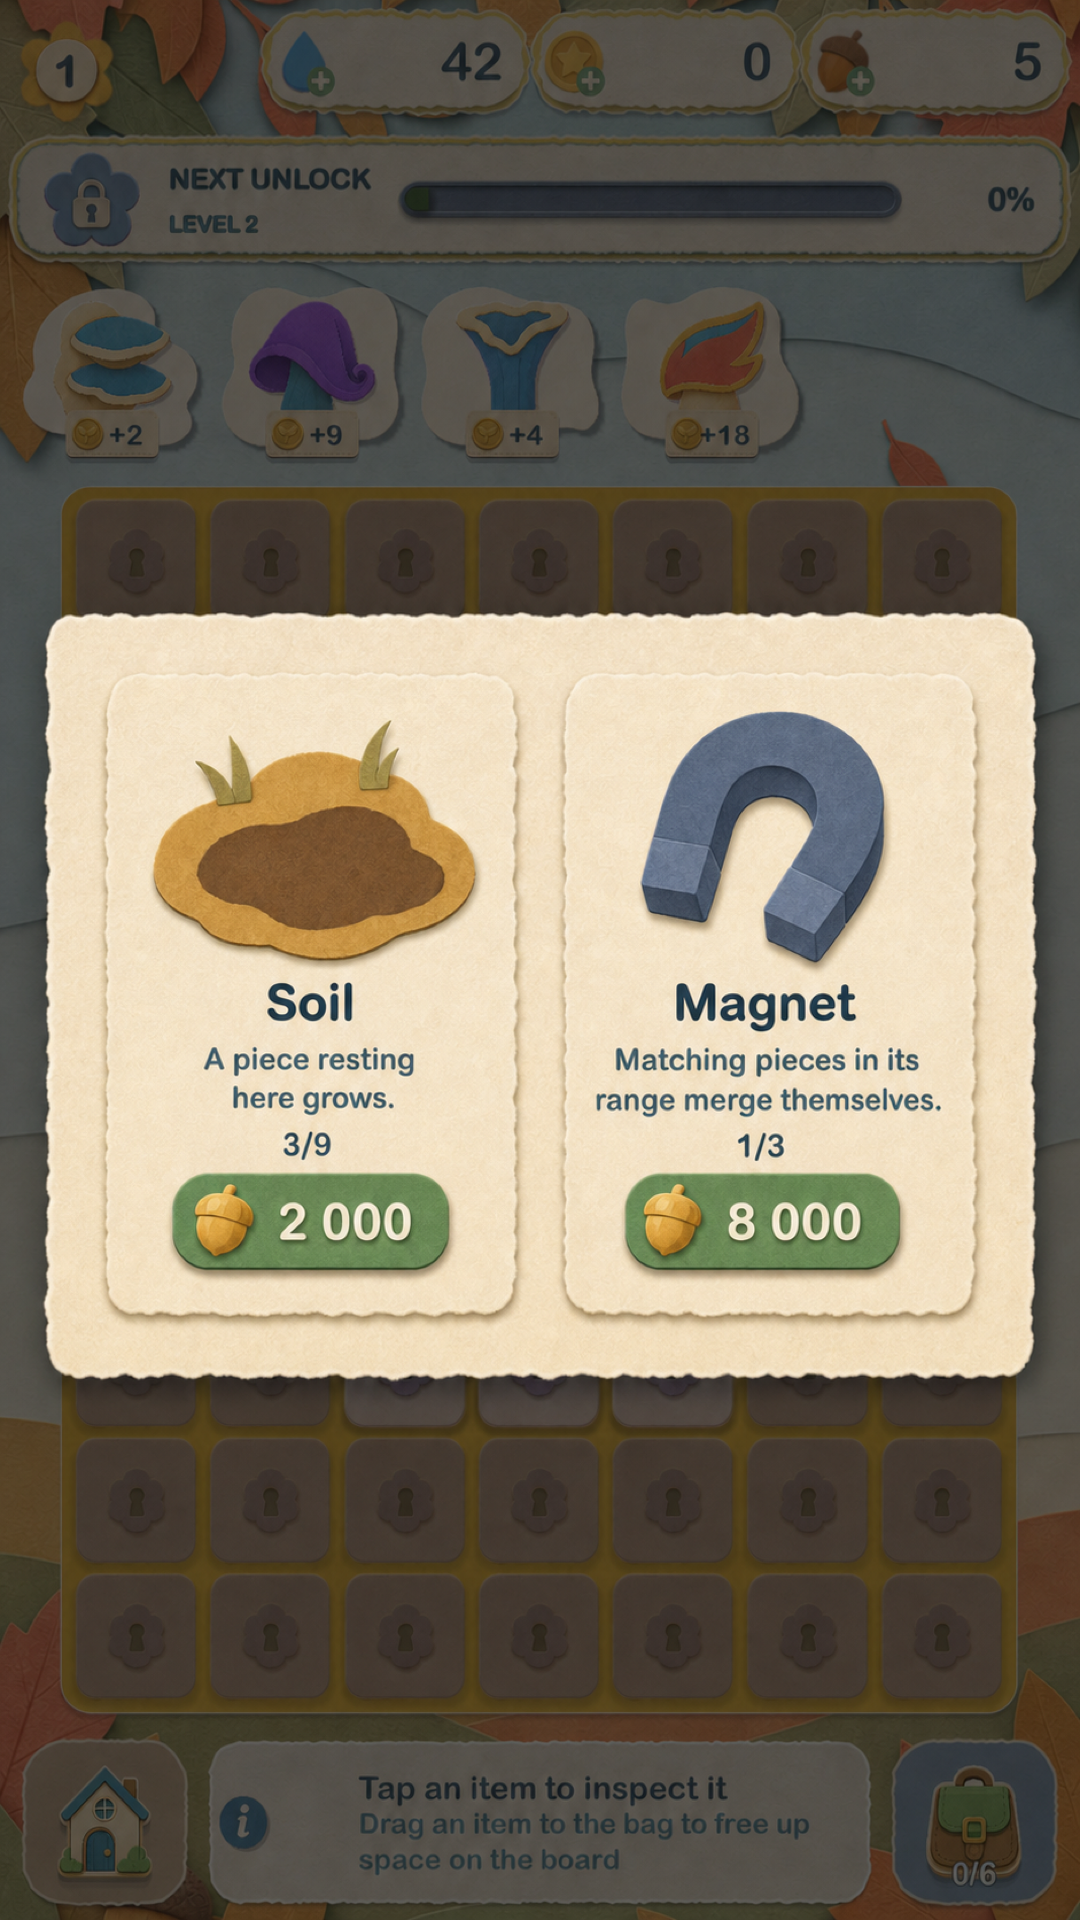
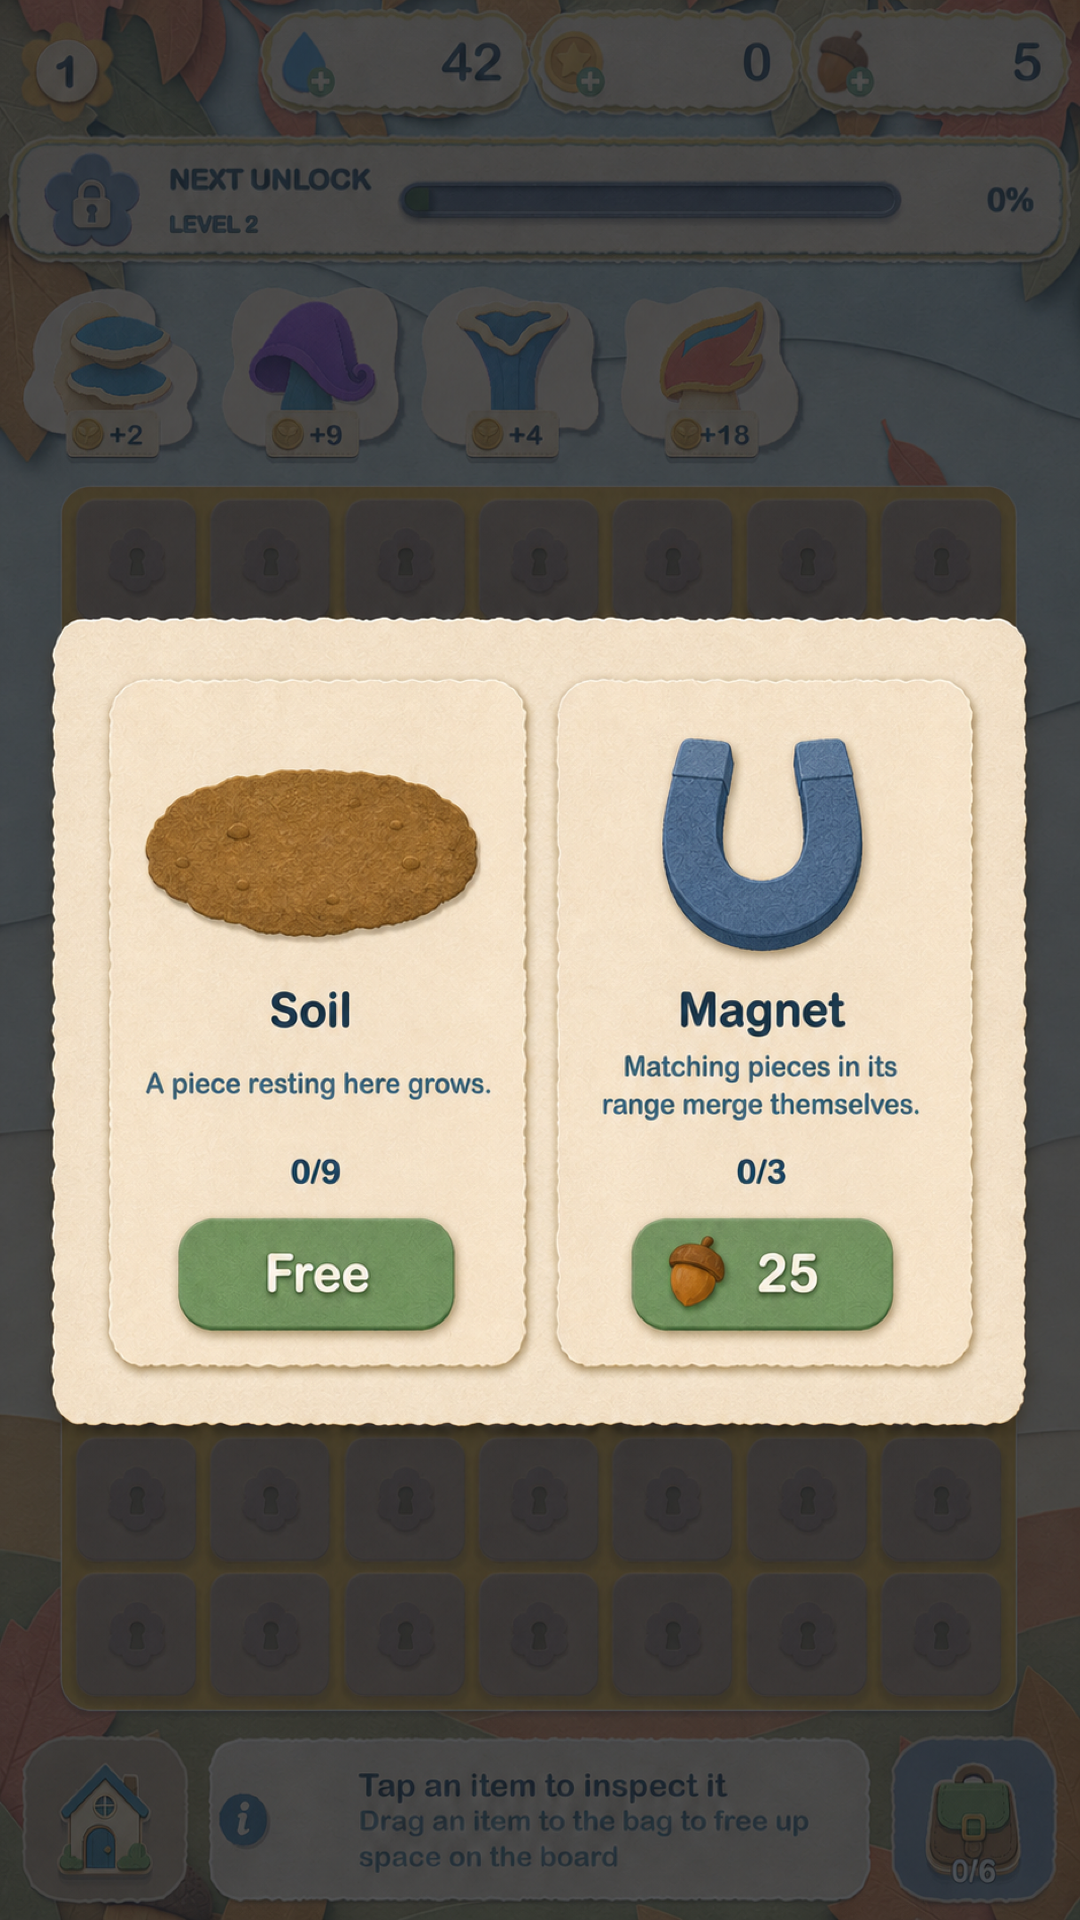
docs(spec)+mocks: cell improvements draft 4 — 3 free soils then coins, magnets cost acorns, paid move verb replaces rebuild, magnet rankless 3x3 with ordinary cell; sheet+magnet mocks regenerated

diff --git a/docs/superpowers/specs/2026-07-26-cell-improvements-design.md b/docs/superpowers/specs/2026-07-26-cell-improvements-design.md
@@ -1,6 +1,6 @@
 # Cell improvements (Soil · Magnet) — spec (2026-07-26)
 
-Draft 3. Rollout step 4 of `2026-07-26-progression-systems-design.md`; supersedes its §6
+Draft 4. Rollout step 4 of `2026-07-26-progression-systems-design.md`; supersedes its §6
 where they differ. All numbers are provisional dials — the `grove_sim` re-pass owns finals.
 Acorns = `currencies.diamonds` (`save.gd:145-160`). Home board only (Rush is a separate
 scene, `explore_rush.gd:65` — no flag needed).
@@ -10,10 +10,14 @@ scene, `explore_rush.gd:65` — no flag needed).
 - Two types: **Soil** — a resting piece grows a tier on a timer. **Magnet** — matching
   pieces inside its range merge automatically.
 - Build on any unsealed, empty cell. Caps: **9 Soil · 3 Magnets**.
-- One payment builds at rank 1: pad → two-card sheet → `Save.spend(price, "improvement")`.
-  Price keyed to the count of that type already built (§6).
-- Rebuild to the other type: 200 coins, cell must be empty, rank resets. Demolish: free, no
-  refund.
+- One payment builds: pad → two-card sheet → pay → built. **Soil: the first three are free,
+  then a coin ladder. Magnet: acorns** (§6). Price keyed to the count of that type currently
+  on the board — `Save.spend(n, "improvement")` for coins, `Save.spend_diamonds(n)` for
+  Magnets.
+- **Move:** a built improvement relocates to another unsealed, empty cell for a small flat
+  coin fee; Soil rank travels with it; a running clock on the source clears (the t7+ warning
+  applies, §3). **Demolish:** free, no refund — building again later pays that count slot's
+  price again. There is no type-swap verb (it would bypass the Magnet's acorn price).
 
 ## 2 · Model & laws
 
@@ -78,8 +82,11 @@ time injected). Dials in `grove_data.gd`, read through `content.gd`. All behind
 
 ## 4 · Magnet
 
-- Range by rank: r1 **1×3** (its model row) · r2 **plus** (5 cells) · r3 **3×3**. Off-board
-  and sealed cells are not in range. Shown as a faint field on selection and in build mode.
+- **No ranks — one range: the full 3×3 from purchase.** Off-board and sealed cells are not
+  in range. Shown as a faint field on selection and in build mode.
+- The Magnet's own cell is ordinary ground: pieces may be placed on it, spawn there, or rest
+  there; a piece on the Magnet cell is inside the range and auto-merges like any other (a
+  pair including it lands on the Magnet cell — it is the nearest cell).
 - When two same-code `can_merge` pieces (`board_model.gd:305-311`) sit inside one Magnet's
   range, they auto-merge: both slide to the pair cell nearer the Magnet (tie → lower board
   index, `board_model.gd:37`), then standard merge FX at reduced scale (`GridFx.play_merge`
@@ -113,15 +120,16 @@ time injected). Dials in `grove_data.gd`, read through `content.gd`. All behind
   pieces in its range merge themselves."* Each shows count vs cap ("Soil · 3/9"), greys at
   cap. Tap = spend + build (direct-spend, no nested confirm; unaffordable = grey 0.45,
   pressable, wallet wiggle `shop.gd:603-609`).
-- **Rank view** (tap a built cell in build mode): rank ladder, next price on the bag-slot
-  gold tile (`bag_overlay.gd:77-103`, "Max" at top), Rebuild row, Demolish. Rank-up:
+- **Cell view** (tap a built cell in build mode): Soil shows its rank ladder with the next
+  price on the bag-slot gold tile (`bag_overlay.gd:77-103`, "Max" at top); both types show
+  **Move** (pay the fee, then tap a destination pad) and **Demolish**. Rank-up:
   `FX.celebrate_at`, no modal.
 - **FTUE (~L6):** arms at level ≥ 6, `ftue_seen("soil")` (`save.gd:288-300`); calm-moment
   deferred beat (retirement-offer template `board.gd:3938-3964`, gated on
   `board_tutorial_seen`). One-line card — *"You can tend the ground now — pick a spot for
-  some soil."* — then build mode opens with a free Soil credit; `HandHint.present`
-  (`hand_hint.gd:53-71`) taps a suggested empty cell; the player's tap builds it. The Build
-  button appears with the beat.
+  some soil."* — then build mode opens (the first Soil build is one of the three free ones);
+  `HandHint.present` (`hand_hint.gd:53-71`) taps a suggested empty cell; the player's tap
+  builds it. The Build button appears with the beat.
 - Visuals (normative for mocks and implementation; palette roles per the art guide §3):
   - Build button: round warm-cream leaf button, ~90 px, pinned to the board area's
     bottom-right corner.
@@ -130,14 +138,16 @@ time injected). Dials in `grove_data.gd`, read through `content.gd`. All behind
   - Soil cell: rounded matte earth patch, desaturated gold-brown, deckled cut-paper edge, one
     same-hue shadow plane.
   - Magnet cell: horseshoe pebble in structural slate, inset on the cell.
-  - Rank pips: 1–3 garden-green leaf pips, bottom-left corner of the cell.
+  - Soil rank pips: 1–3 garden-green leaf pips, bottom-left corner of the cell. Magnet has
+    no pips.
   - Growing piece: thin garden-green progress ring, clockwise; small warm-cream time chip
     with ink text ("2h") at the piece's top-right when the step ≥ 15 min; sprout wiggle.
   - Magnet range field: translucent garden-green cut-paper field (~15% opacity) over the
     range cells, under the pieces.
   - Grow row: info tray title *"Growing to t8 — 2h 18m"*; chips 💧 droplet **−10** ·
     🌰 acorn **8**.
-  - Sheet card: type art · name · verb line · count vs cap ("3/9") · green price pill.
+  - Sheet card: type art · name · verb line · count vs cap ("0/9") · price pill — Soil:
+    "Free" while free builds remain, then the coin price; Magnet: acorn icon + acorn price.
   - Warning card: *"This restarts 6h of growing. Move it anyway?"* — **Keep growing**
     (action green, default) · **Move it** (quiet cream).
 - Art via intake (`docs/design/art-style-guide.md`): soil patch, pebble, buildable pad, leaf
@@ -149,23 +159,25 @@ time injected). Dials in `grove_data.gd`, read through `content.gd`. All behind
 
 | Dial | Value |
 |---|---|
-| Soil builds (Nth) | free (FTUE) · 500 · 1 000 · 2 000 · 4 000 · 8 000 · 16 000 · 32 000 · 64 000 |
-| Magnet builds (Nth) | 2 000 · 8 000 · 32 000 |
-| Rebuild / Demolish | 200 coins flat / free, no refund |
-| Soil ranks | r2 600 · r3 1 500 |
-| Magnet ranks | r2 5 000 · r3 20 000 |
+| Soil builds (Nth) | 1–3 **free** · then 500 · 1 000 · 2 000 · 4 000 · 8 000 · 16 000 coins |
+| Magnet builds (Nth) | **25 · 50 · 100 acorns** |
+| Move fee | 100 coins, flat |
+| Demolish | free, no refund |
+| Soil ranks | r2 600 · r3 1 500 coins |
 | `SOIL_WATER_COST` | 10 water — sim revisits the flat halve at t10+ (worth 24 h at t11) |
 | Acorn finish | `max(1, ceil(remaining / 30 min))` |
 
-Consts in `grove_data.gd` beside `BOOST_COST` (`grove_data.gd:232`); nothing in
-`economy_tuning.json` unless the owner wants a live dial.
+Prices key to the count of that type currently on the board (demolish decrements). Consts in
+`grove_data.gd` beside `BOOST_COST` (`grove_data.gd:232`); nothing in `economy_tuning.json`
+unless the owner wants a live dial.
 
 ## 7 · Sim re-pass (gates the merge)
 
 Run: `godot --headless --path . -s res://games/grove/tools/grove_sim.gd -- [days] [seed]`.
 
-- `improve_spend` counter into `coin_sink` (`grove_sim.gd:337`) and the Z report (`:341`);
-  the bot buys builds/ranks greedily (boost-buy block as template) → I3 runway.
+- coin spends (paid Soils, ranks, moves) into a new `improve_spend` counter folded into
+  `coin_sink` (`grove_sim.gd:337`) and the Z report (`:341`); Magnet acorns into the D
+  diamond ledger; the bot buys greedily (boost-buy block as template) → I3 runway.
 - I1 zero jams at full build-out (12 improved cells).
 - Soil as a bounded faucet — 9 cells on the §3 curve to t12; re-confirm Y and faucet drift;
   price the t10+ watering halve.
@@ -186,20 +198,18 @@ real-scene via manual `_ready`, `grove_test_base.gd:438-441`, and `_tap_board` `
 `range_pairs` units in `engine/tests/`. Add the suite to `GROVE_TESTS` in the Makefile and
 the `CLAUDE.md` suite list in the same commit.
 
-Cover: build/rebuild/demolish/rank flows + cap refusals · pads only on empty+unsealed ·
-spawn on Soil grows; gen auto-place skips · clock reconcile matrix
+Cover: build flows — three free Soils then the coin ladder, Magnet acorn spend, cap
+refusals, count math across demolish · move — fee, Soil rank travels, source clock clears,
+t7+ warning on a t7+ move · demolish free/no refund · pads only on empty+unsealed · spawn on
+Soil grows; gen auto-place skips · clock reconcile matrix
 (arrive/leave/replace/merge-onto/complete; `watered` per step) · curve incl. ranks and
 `merge_top` clamps · water-once + finish price · offline completion via stamp · t7+ warning
-on every reset path, absent below t7 · range shapes per rank · auto-merge order, landing
-cell, loop-until-done · all five guards (asked code · growing piece · armed chain · no
-credit/no RNG, `rng.state` byte-identical · kind-uniformity) · save round-trip, tolerant
-load, purge self-heal · `range_pairs` known-positive/negative · FTUE once-only, free credit
-spends once.
+on every reset path, absent below t7 · magnet 3×3 from purchase; a piece on the Magnet cell
+auto-merges · auto-merge order, landing cell, loop-until-done · all five guards (asked code
+· growing piece · armed chain · no credit/no RNG, `rng.state` byte-identical ·
+kind-uniformity) · save round-trip, tolerant load, purge self-heal · `range_pairs`
+known-positive/negative · FTUE once-only.
 
 ## 10 · Open questions
 
-1. Move verb for placed improvements, or rebuild/demolish only? (A misplaced 32 000-coin
-   Magnet has no recovery.)
-2. Magnet r1/r2 range shapes — only the 3×3 max was pinned; 1×3 → plus is this spec's
-   fill-in.
-3. t5 grow step = 30 min — interpolated between the pinned 15 min and 1 h.
+1. t5 grow step = 30 min — interpolated between the pinned 15 min and 1 h.

diff --git a/games/grove/assets/_concepts/ui/improvements_v1/README.md b/games/grove/assets/_concepts/ui/improvements_v1/README.md
@@ -12,7 +12,7 @@ elements only).
 | `build_mode_1080x1920.png` | build mode: dimmed play, pads on open empty cells, one built Soil, leaf Build button |
 | `build_sheet_1080x1920.png` | the two-card build sheet (Soil · Magnet) with counts and prices |
 | `soil_growing_1080x1920.png` | a growing piece on Soil (ring, time chip) + the info-bar grow row |
-| `magnet_range_1080x1920.png` | a rank-3 Magnet with its 3×3 field and an auto-merge pull |
+| `magnet_range_1080x1920.png` | a Magnet with its 3×3 field and an auto-merge pull |
 | `t7_warning_1080x1920.png` | the t7+ accidental-reset confirm |
 
 Composition mocks, not shippable assets — cell art regenerates through the §8 intake
